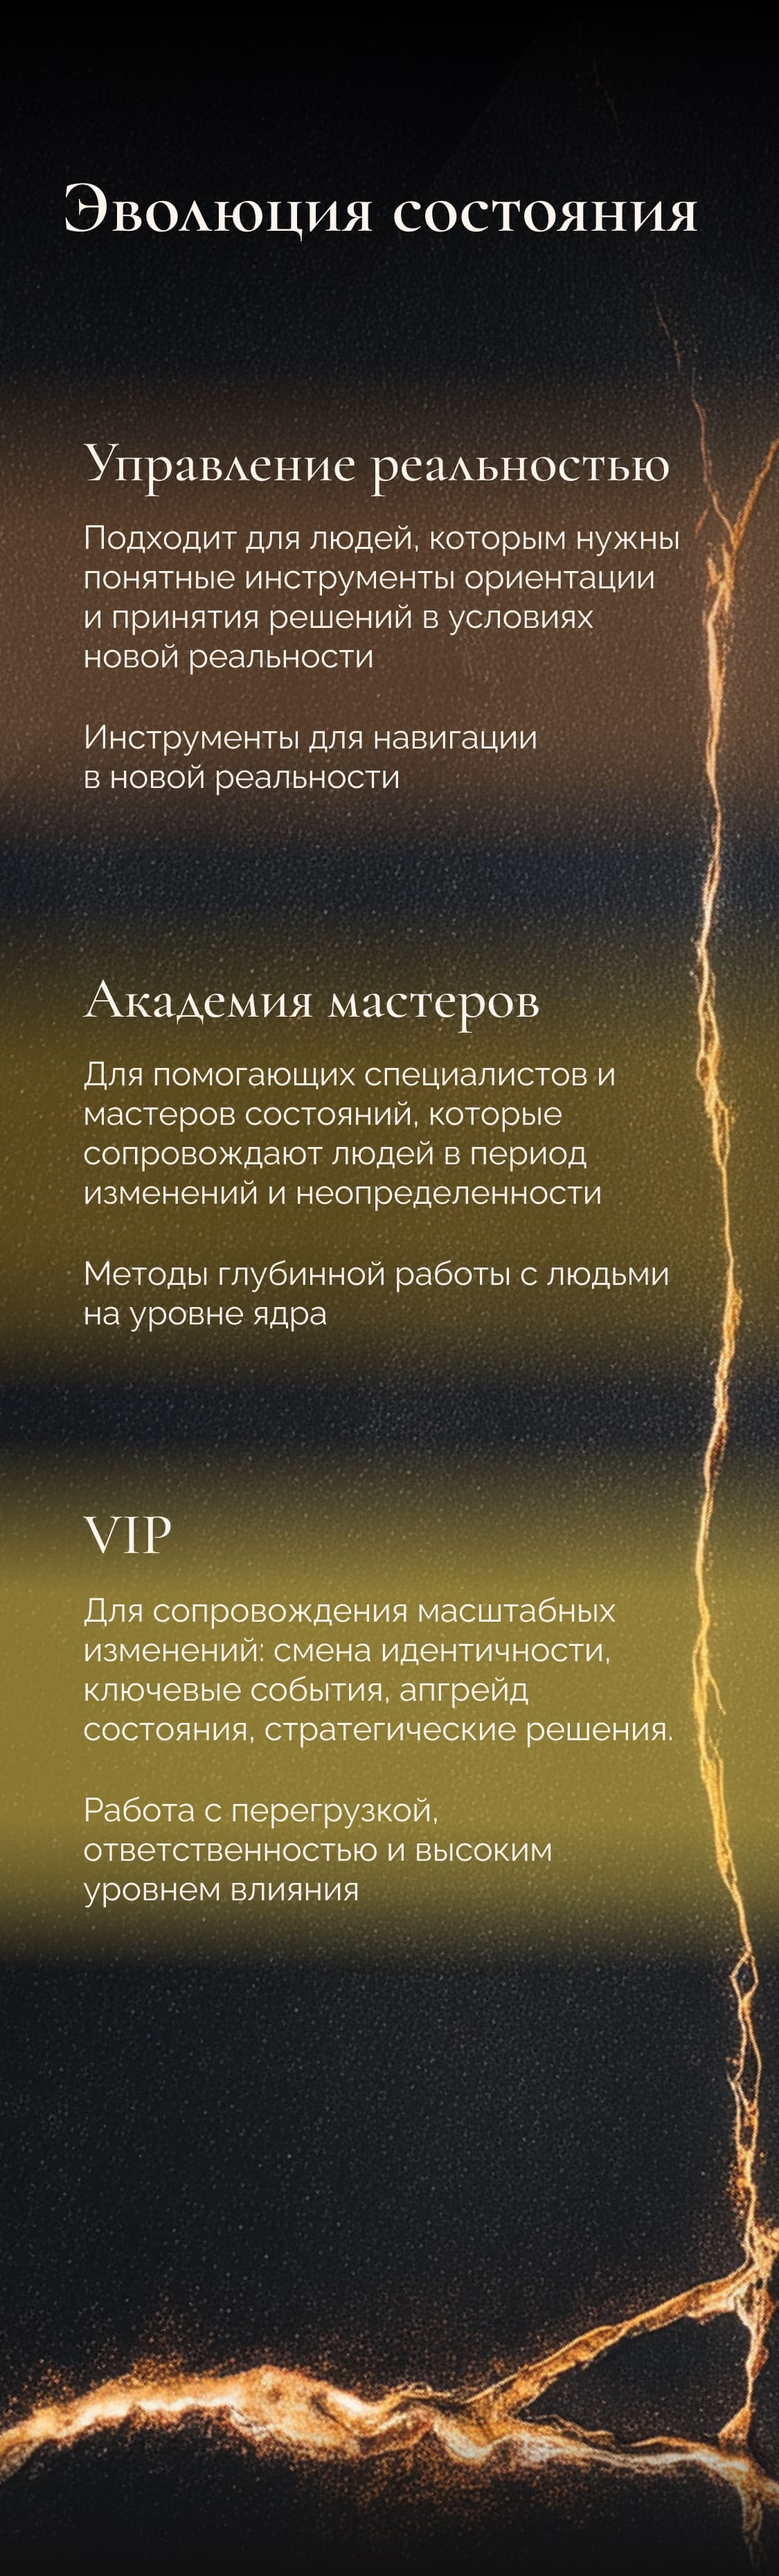
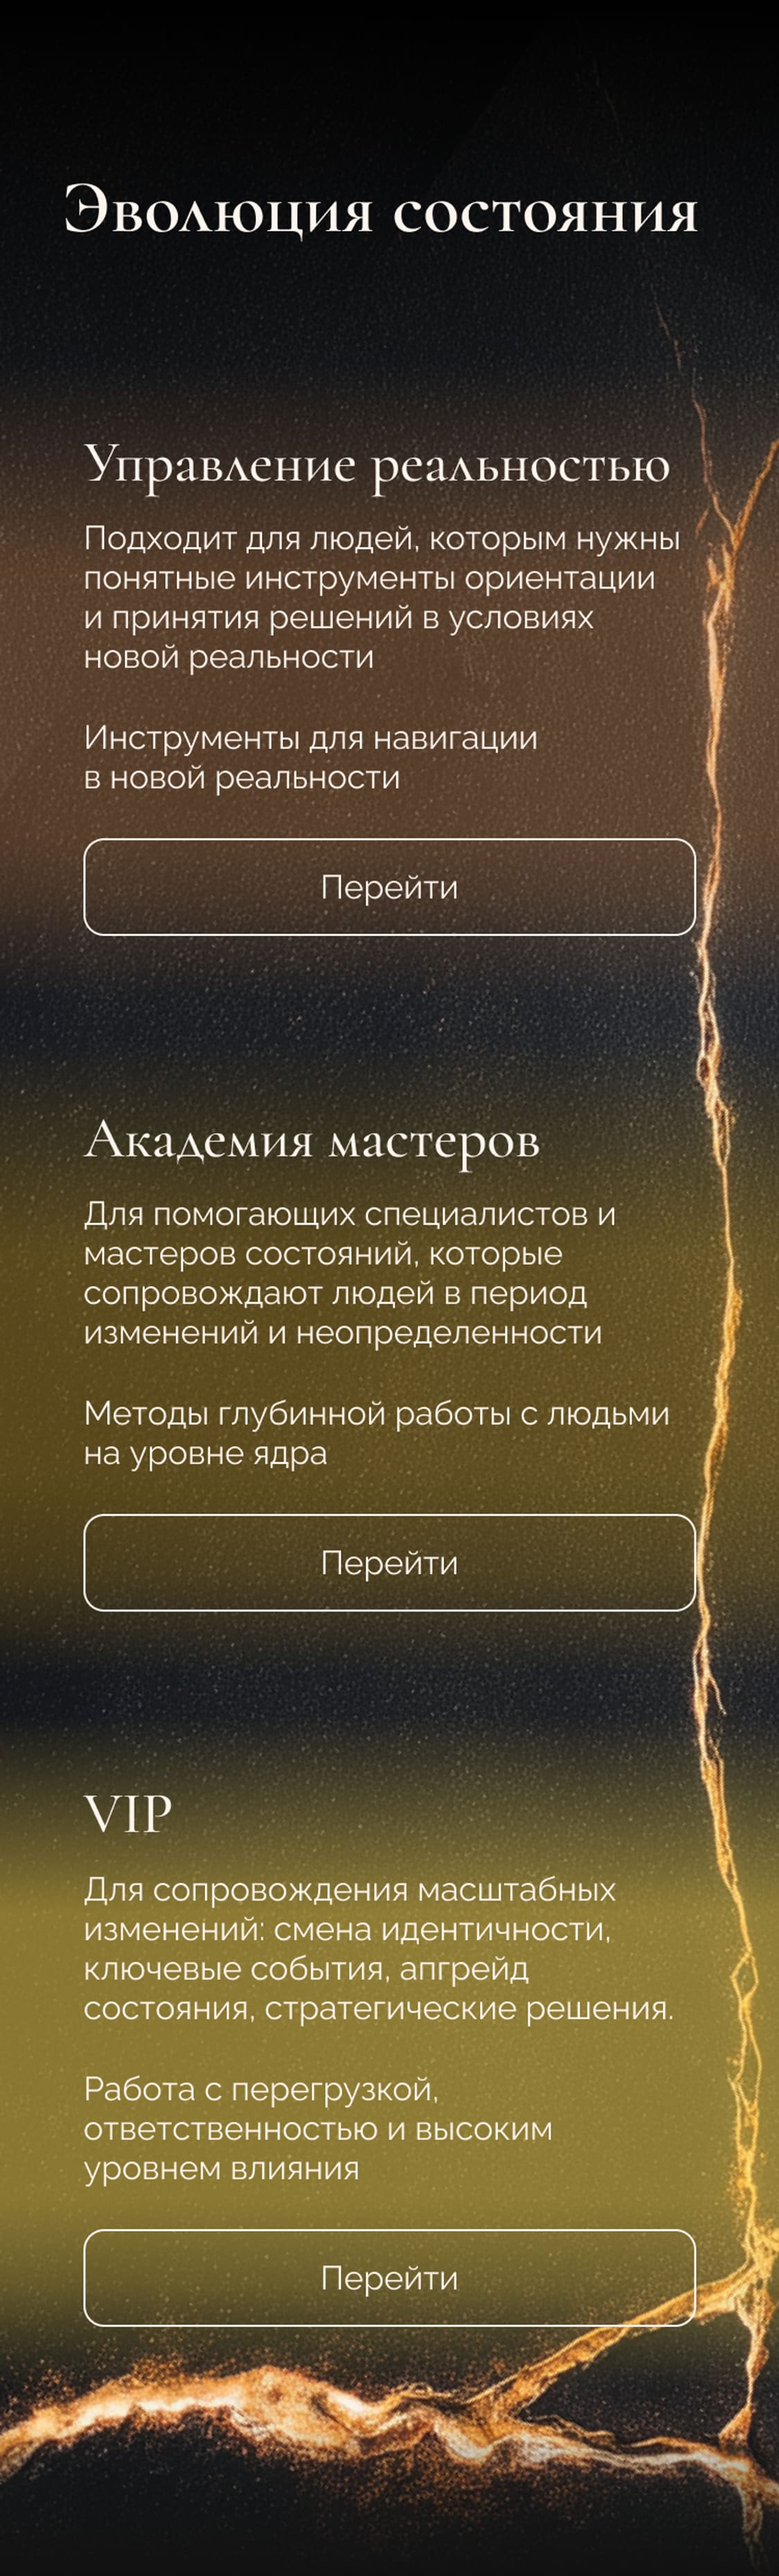
S11 mobile + auto-hide header on scroll
S11: replace the old s11.jpg (which was missing the visible "Перейти"
pills) with the proper reference export `референс перейти блок.png`
scaled to 1125×3717. The three pills are now drawn into the art, and
the .s11-btn-1/2/3 hit zones are re-tuned (bottom 70/42/10%) to sit
centered on them with a 6% tap height. Fixes the "плывёт" look where
users saw text-only cards and invisible click zones.

Header: auto-hide on scroll-down, re-show on scroll-up. Stays pinned at
the very top (<80px). Uses a 35ms cubic-bezier translateY(-110%) so it
glides off-screen instead of chasing baked-in block titles. The
mobile-only minimalism (no logo, no CTA, only burger + RU/UA/EN) from
PR #14 is preserved.

diff --git a/src/app/globals.css b/src/app/globals.css
@@ -1018,10 +1018,19 @@ img.desktop-only { display: block !important; }
   /* S11 mobile | ref: 11.png (375×1239) — stacked full-width.
      Card text in the JPG ends at 30.6% / 51.9% / 75.1% from top;
      buttons sit in the dark gap just below each card. */
-  .s11-btn-overlay { left: 6.7% !important; width: 86.7% !important; }
-  .s11-btn-1 { bottom: 64.5%; }
-  .s11-btn-2 { bottom: 43.5%; }
-  .s11-btn-3 { bottom: 20%; }
+  /* Button positions tuned against `референс перейти блок.png` (1125×3717).
+     The reference bakes visible rounded "Перейти" pills into the art at
+     approximately 26.6% / 54.9% / 87.3% from top. Hit zones sit centered
+     on those pills with a 6% height for a generous tap target. */
+  .s11-btn-overlay {
+    left: 6.7% !important;
+    width: 86.7% !important;
+    height: 6%;
+    aspect-ratio: auto !important;
+  }
+  .s11-btn-1 { bottom: 70%; }
+  .s11-btn-2 { bottom: 42%; }
+  .s11-btn-3 { bottom: 10%; }
 
   /* S12 mobile | ref: подвал моб версия референс.png (1125×1800).
      Footer background IS the reference image — book card, social icons,
@@ -1084,6 +1093,14 @@ img.desktop-only { display: block !important; }
 }
 .site-header.scrolled {
   background: rgba(26, 13, 5, 0.95);
+}
+.site-header.hidden {
+  transform: translateY(-110%);
+  transition: transform 0.35s cubic-bezier(0.22, 0.61, 0.36, 1);
+}
+.site-header {
+  transition: transform 0.35s cubic-bezier(0.22, 0.61, 0.36, 1),
+              background 0.3s ease;
 }
 
 .header-logo {

diff --git a/src/components/Header.tsx b/src/components/Header.tsx
@@ -8,18 +8,34 @@ import type { Lang } from '@/lib/translations';
 export default function Header() {
   const { lang, setLang, tr } = useTranslation();
   const [scrolled, setScrolled] = useState(false);
+  const [hidden, setHidden] = useState(false);
   const [authOpen, setAuthOpen] = useState(false);
   const [menuOpen, setMenuOpen] = useState(false);
 
   useEffect(() => {
-    const onScroll = () => setScrolled(window.scrollY > 60);
+    let lastY = window.scrollY;
+    const onScroll = () => {
+      const y = window.scrollY;
+      setScrolled(y > 60);
+      // Auto-hide on scroll down past the hero, re-show on scroll up.
+      // Avoids the sticky header "chasing" over baked-in block content
+      // on mobile. Stays pinned at the very top (< 80px).
+      if (y < 80) {
+        setHidden(false);
+      } else if (y > lastY + 4) {
+        setHidden(true);
+      } else if (y < lastY - 4) {
+        setHidden(false);
+      }
+      lastY = y;
+    };
     window.addEventListener('scroll', onScroll, { passive: true });
     return () => window.removeEventListener('scroll', onScroll);
   }, []);
 
   return (
     <>
-      <header className={`site-header${scrolled ? ' scrolled' : ''}`}>
+      <header className={`site-header${scrolled ? ' scrolled' : ''}${hidden ? ' hidden' : ''}`}>
         <a href="/" className="header-logo">
           <span className="header-logo-text">REALITY DNA</span>
         </a>
